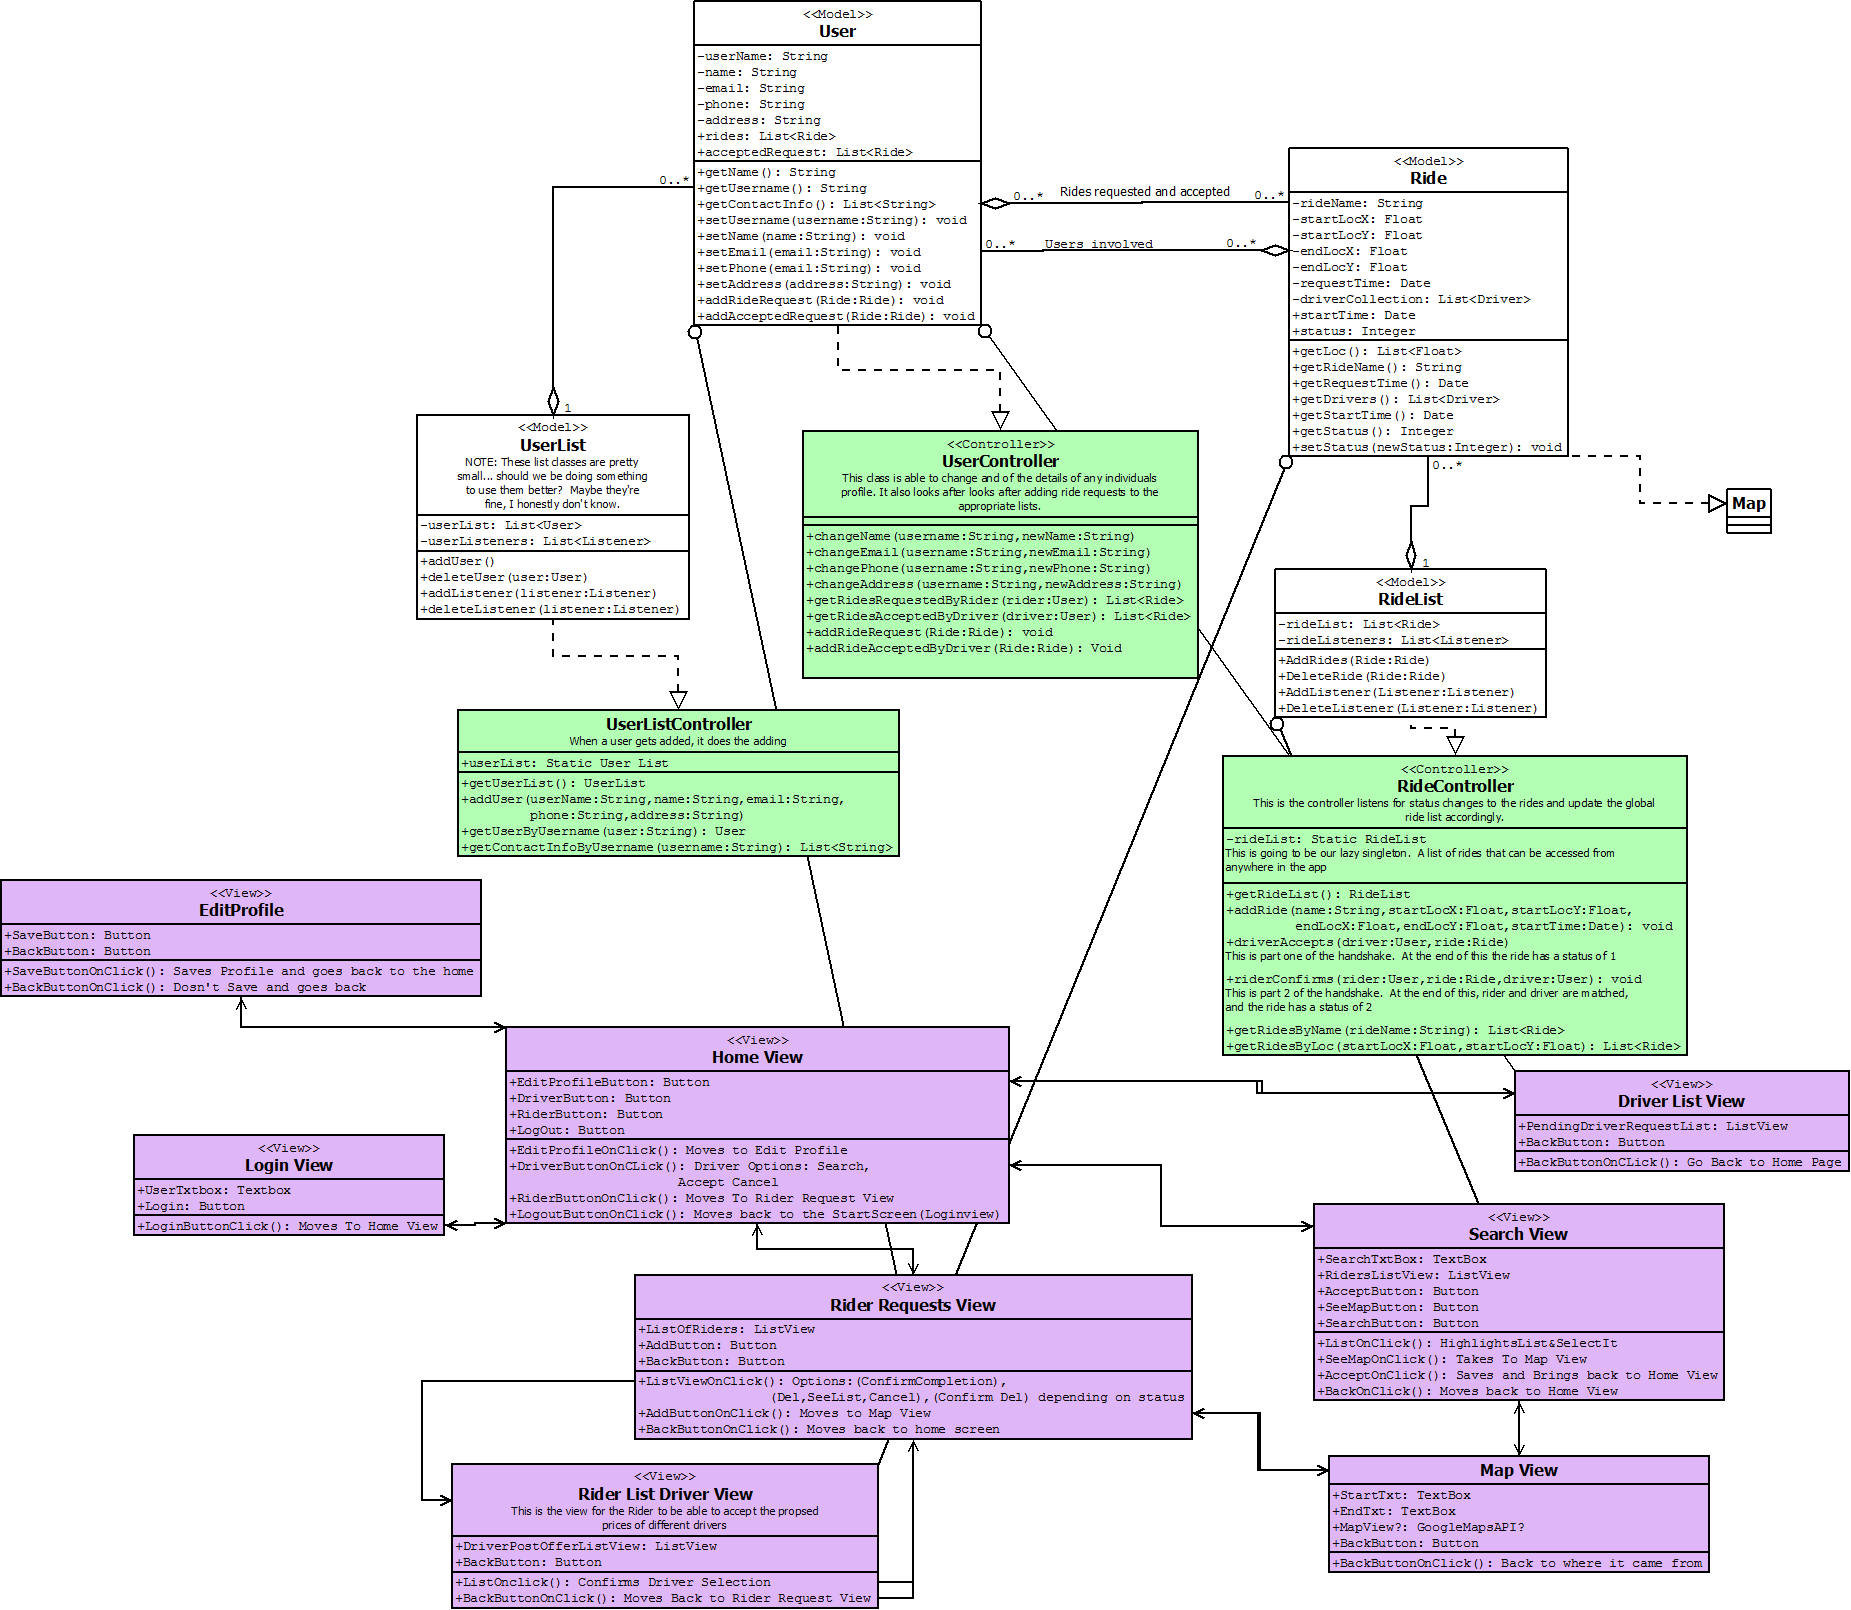
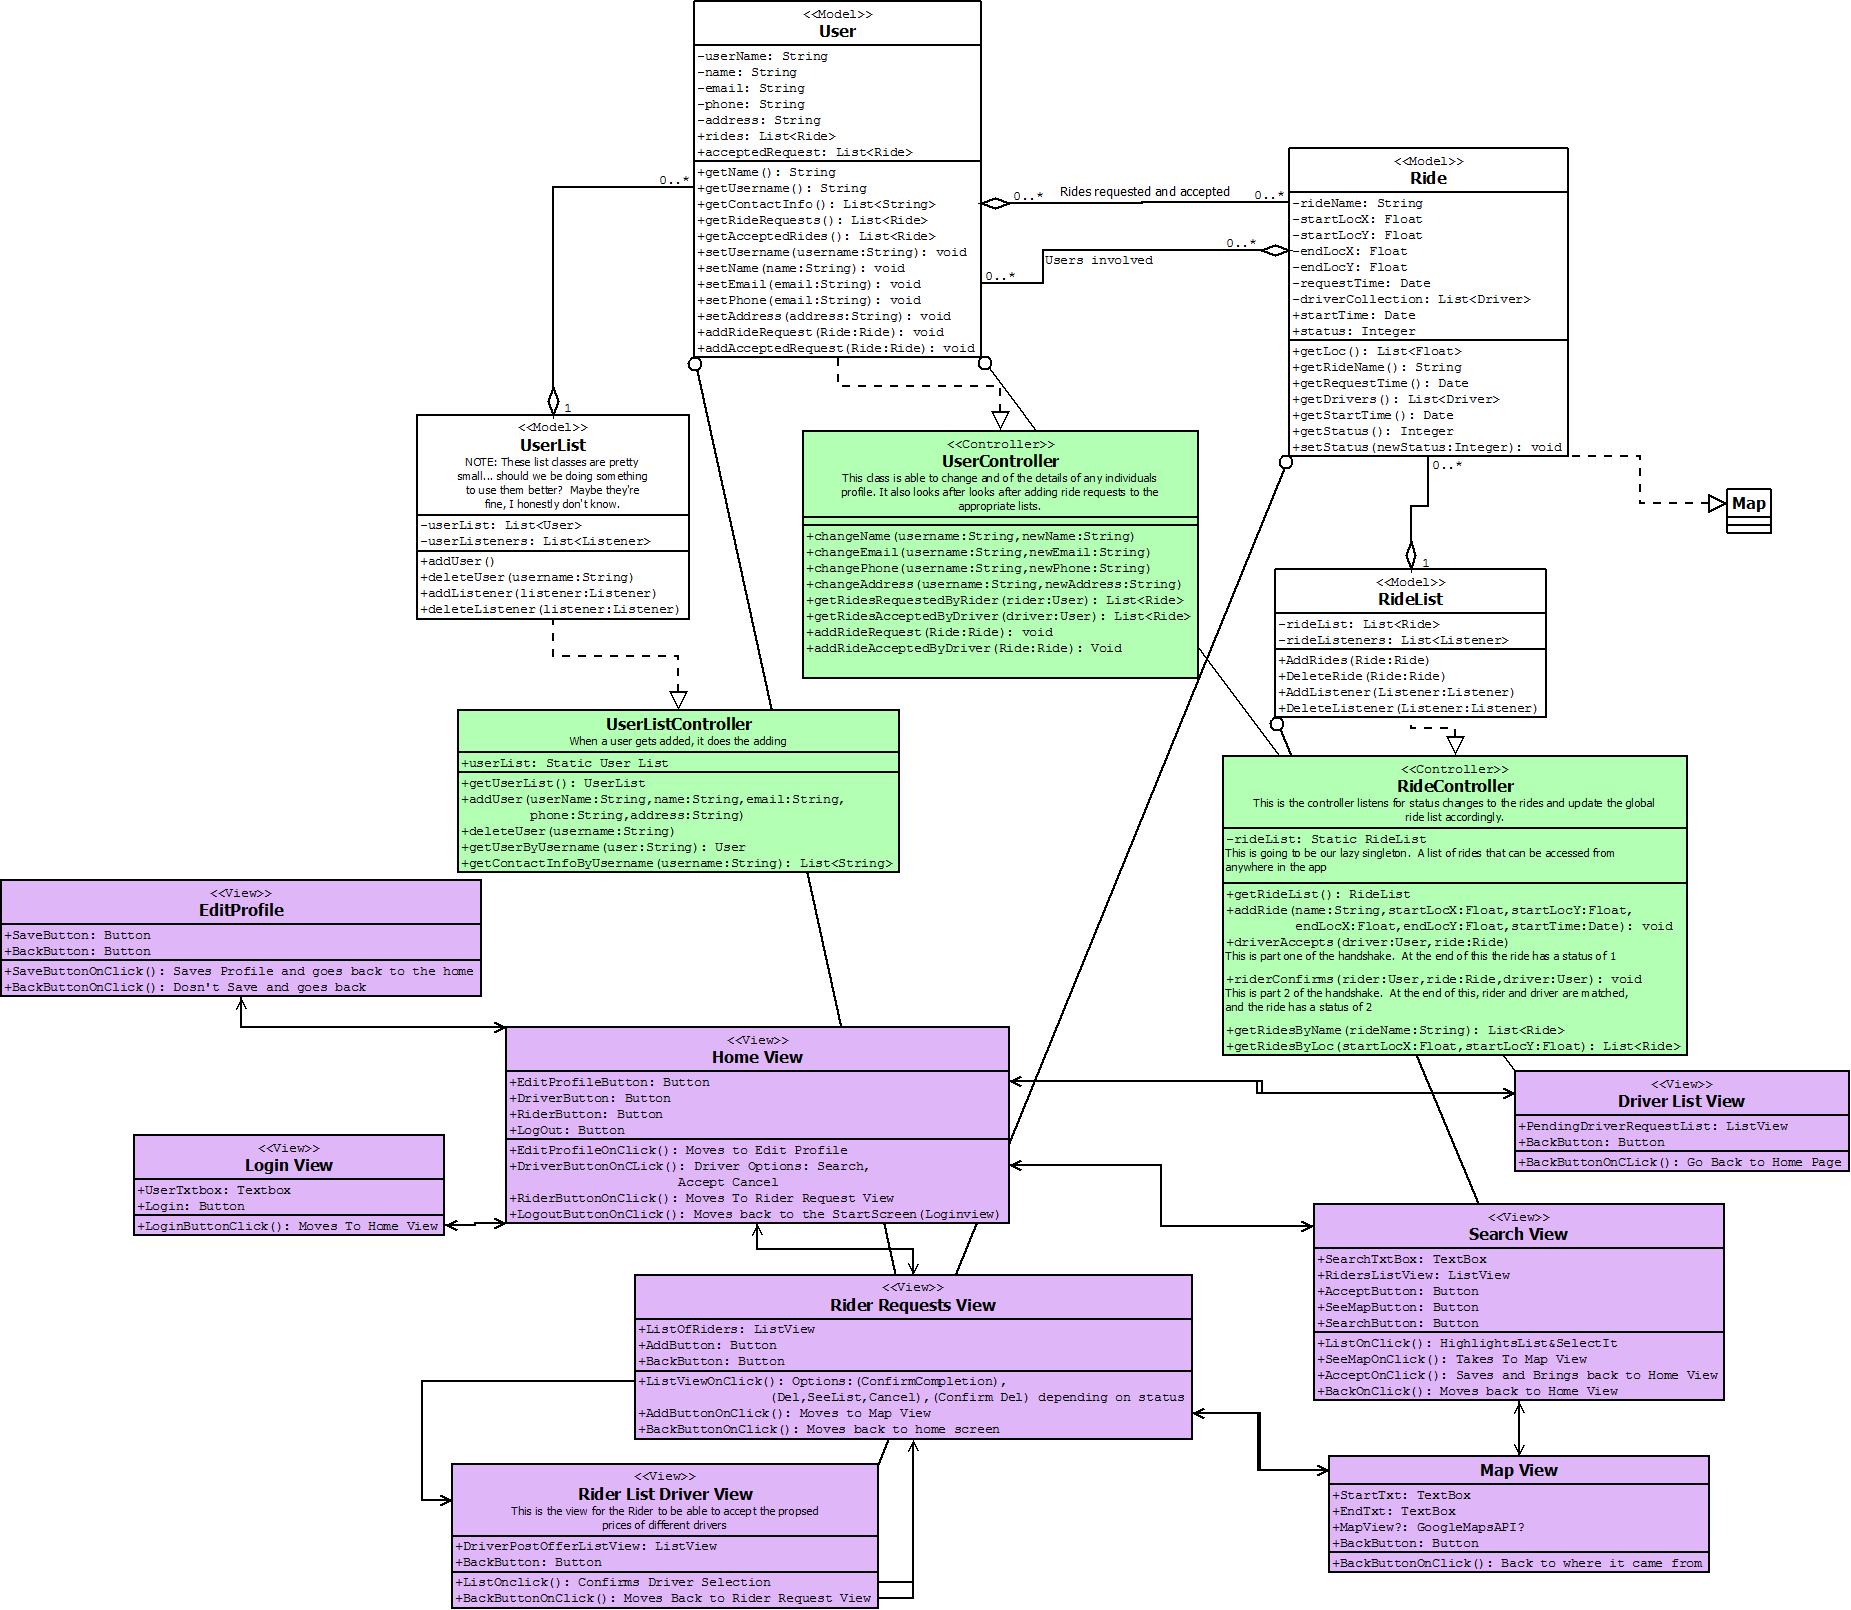
test 030101 passes.  Adding a new user account.  Started adding content to the User, UserList, and UserController classes

Changed region(s): [[0.3695, 0.1242, 0.5235, 0.2484], [0.2464, 0.4969, 0.4927, 0.559], [0.5235, 0.2174, 0.5543, 0.2484]]

diff --git a/app/src/test/java/com/example/ehsueh/appygolucky/UC030101.java b/app/src/test/java/com/example/ehsueh/appygolucky/UC030101.java
@@ -20,16 +20,43 @@ public class UC030101 {
 
     @Test
     public void testCreateUser() {
+        UserController uc = new UserController();
+        String username = "test_myCoolName";
+        String name1 = "John";
+        String email1 = "john@yo.com";
+        String phone1 = "478-5632";
+        String address1 = "123 main";
+
+        String name2 = "Sally";
+        String email2 = "sally@yo.com";
+        String phone2 = "123-4567";
 
         //Create new user with unique username
-        User myUser = new User("myCoolName", "John", "john@yo.com", "478-5632");
-        assertEquals("Username does not match", "myCoolName", myUser.getUsername());
+        try {
+            uc.addUser(username, name1, email1, phone1, address1);
+        }
+        catch (UsernameNotUniqueException e) {
+            fail("Threw exception");
+        }
+        User myUser = uc.getUserByUsername(username);
+        assertEquals("Username does not match", username, myUser.getUsername());
 
         //Attempt to create new user with same username
         try {
-            User myUser2 = new User("myCoolName", "Sally", "sally@yo.com", "123-45678");
+            uc.addUser(username, name2, email2, phone2, address1);
             fail("Exception not thrown when attempting to use a duplicate username");
         } catch (Exception e) {
         }
+        uc.deleteUser(username);
+
+
+        //Create a user without a username and phone number
+        try {
+            uc.addUser(username, name1, "", "", "");
+        }
+        catch (UsernameNotUniqueException e) {
+            fail("Threw exception");
+        }
+        uc.deleteUser(username);
     }
 }

diff --git a/app/src/main/java/com/example/ehsueh/appygolucky/User.java b/app/src/main/java/com/example/ehsueh/appygolucky/User.java
@@ -1,5 +1,7 @@
 package com.example.ehsueh.appygolucky;
 
+import java.util.List;
+
 /**
  * Created by Corey on 2016-10-13.
  */
@@ -9,13 +11,16 @@ public class User {
     private String name;
     private String email;
     private String phone;
+    private String address;
 
-    public User(String username, String name, String email, String phone) {
+    public User(String username, String name, String email, String phone, String address) {
         this.username = username;
         this.name = name;
         this.email = email;
         this.phone = phone;
+        this.address = address;
     }
+
 
     public String getUsername() {
         return username;
@@ -25,23 +30,23 @@ public class User {
         return name;
     }
 
-    public String getEmail() {
-        return email;
-    }
+    public List<String> getContactInfo() { return null; }
 
-    public String getPhone() {
-        return phone;
-    }
+    public List<Ride> getRideRequests() { return null; }
 
-    public void setName(String name) {
-        this.name = name;
-    }
+    public List<Ride> getAcceptedRides() { return null; }
 
-    public void setEmail(String email) {
-        this.email = email;
-    }
+    public void setUsername() {}
 
-    public void setPhone(String phone) {
-        this.phone = phone;
-    }
+    public void setName(String name) {}
+
+    public void setEmail() {}
+
+    public void setPhone() {}
+
+    public void setAddress() {}
+
+    public void addRideRequest() {}
+
+    public void addAcceptedRequest() {}
 }

diff --git a/app/src/main/java/com/example/ehsueh/appygolucky/UserList.java b/app/src/main/java/com/example/ehsueh/appygolucky/UserList.java
@@ -1,11 +1,15 @@
 package com.example.ehsueh.appygolucky;
 
+import android.util.Log;
+
 import java.util.ArrayList;
 import java.util.List;
 
 /**
  * Created by Corey on 2016-10-13.
  */
+
+//TODO: possibly replace userList with a hashtable
 
 public class UserList {
     private List<User> userList;
@@ -14,11 +18,42 @@ public class UserList {
         this.userList = new ArrayList<User>();
     }
 
-    public void add(User newUser) {
+    public void addUser(User newUser) {
+        this.userList.add(newUser);
+    }
 
+    public Boolean containsUsername(String username) {
+        for (User user : userList) {
+            if(user.getUsername() == username) {
+                return Boolean.TRUE;
+            }
+        }
+        return Boolean.FALSE;
     }
 
     public User getUserByUsername(String username) {
-        return new User(null, null, null, null);
+        for (User user: userList) {
+            if(user.getUsername() == username) {
+                return user;
+            }
+        }
+
+        //If username does not exist
+        return null;
+    }
+
+    public void deleteUser(String username) {
+        User userToDelete = null;
+        for (User user: userList) {
+            if(user.getUsername() == username) {
+                userToDelete = user;
+            }
+        }
+        try {
+            userList.remove(userToDelete);
+        }
+        catch(NullPointerException e) {
+            Log.d("UserList", "Trying to delete a username that doesn't exist");
+        }
     }
 }

diff --git a/app/src/main/java/com/example/ehsueh/appygolucky/UserController.java b/app/src/main/java/com/example/ehsueh/appygolucky/UserController.java
@@ -1,0 +1,33 @@
+package com.example.ehsueh.appygolucky;
+
+/**
+ * Created by Corey on 2016-11-05.
+ */
+public class UserController {
+
+    private UserList userList;
+
+    public UserController() {
+        this.userList = new UserList();
+    }
+
+    public void addUser(String username, String name, String email, String phone, String address)
+            throws UsernameNotUniqueException {
+        if(!userList.containsUsername(username)) {
+            User newUser = new User(username, name, email, phone, address);
+            this.userList.addUser(newUser);
+        }
+
+        else {
+            throw new UsernameNotUniqueException();
+        }
+    }
+
+    public User getUserByUsername(String username) {
+        return this.userList.getUserByUsername(username);
+    }
+
+    public void deleteUser(String username) {
+        this.userList.deleteUser(username);
+    }
+}

diff --git a/app/src/test/java/com/example/ehsueh/appygolucky/UC030301.java b/app/src/test/java/com/example/ehsueh/appygolucky/UC030301.java
@@ -19,9 +19,9 @@ public class UC030301 extends ActivityInstrumentationTestCase2 {
     }
 
     public void testRetrieveInfo() {
-        User myUser = new User("myCoolName", "John", "john@yo.com", "478-5632");
+        User myUser = new User("myCoolName", "John", "john@yo.com", "478-5632", "123 main");
         UserList list = new UserList();
-        list.add(myUser);
+        list.addUser(myUser);
 
         User retrievedUser = list.getUserByUsername("myCoolName");
         assertEquals("Returned the wrong user", myUser, retrievedUser);

diff --git a/app/src/test/java/com/example/ehsueh/appygolucky/UC030201.java b/app/src/test/java/com/example/ehsueh/appygolucky/UC030201.java
@@ -20,7 +20,7 @@ public class UC030201 extends ActivityInstrumentationTestCase2{
 
     public void testEditData() {
         String newName = "Fred";
-        User myUser = new User("myCoolName", "John", "john@yo.com", "478-5632");
+        User myUser = new User("myCoolName", "John", "john@yo.com", "478-5632", "123 main");
         assertFalse(myUser.getName() == newName);
 
         //Try changing the name, and ensure that it has indeed changed

diff --git a/app/src/main/java/com/example/ehsueh/appygolucky/Driver.java b/app/src/main/java/com/example/ehsueh/appygolucky/Driver.java
@@ -7,11 +7,11 @@ import java.util.Collection;
  * Created by Corey on 2016-10-13.
  */
 
-public class Driver extends User {
+//TODO: delete this class
+public class Driver {
     Collection<Ride> acceptedRides;
     public Driver() {
         //TODO: replace this with something useful
-        super(null, null, null, null);
         this.acceptedRides = new ArrayList<Ride>();
     }
 

diff --git a/app/src/main/java/com/example/ehsueh/appygolucky/DriversWhoHaveAcceptedList.java b/app/src/main/java/com/example/ehsueh/appygolucky/DriversWhoHaveAcceptedList.java
@@ -8,6 +8,8 @@ import java.util.Collection;
  * An instance of this list will be had by every ride-request as soon as the first driver accepts
  * the ride-request.
  */
+
+//TODO: delete this because we are using an ArrayList isntead
 public class DriversWhoHaveAcceptedList {
 
     public Collection<Driver> getDrivers() {

diff --git a/app/src/main/java/com/example/ehsueh/appygolucky/Rider.java b/app/src/main/java/com/example/ehsueh/appygolucky/Rider.java
@@ -4,9 +4,10 @@ package com.example.ehsueh.appygolucky;
  * Created by Corey on 2016-10-13.
  */
 
-public class Rider extends User {
+//TODO: delete this class
+
+public class Rider {
     public Rider() {
         //TODO: replace this with something useful
-        super(null, null, null, null);
     }
 }

diff --git a/app/src/main/java/com/example/ehsueh/appygolucky/UsernameNotUniqueException.java b/app/src/main/java/com/example/ehsueh/appygolucky/UsernameNotUniqueException.java
@@ -1,0 +1,8 @@
+package com.example.ehsueh.appygolucky;
+
+/**
+ * Created by Corey on 2016-11-05.
+ */
+
+public class UsernameNotUniqueException extends Exception {
+}
